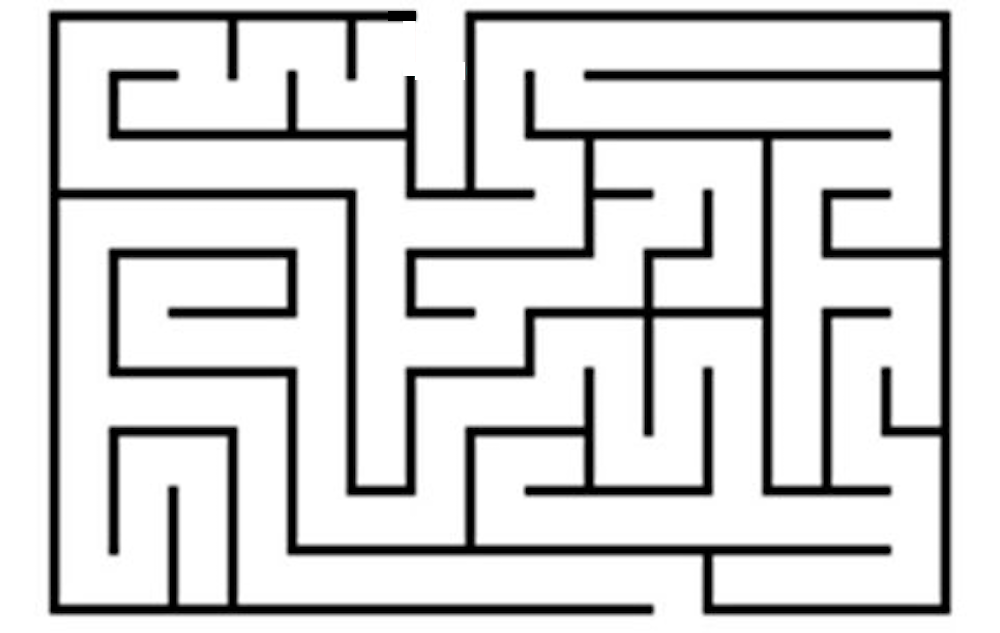
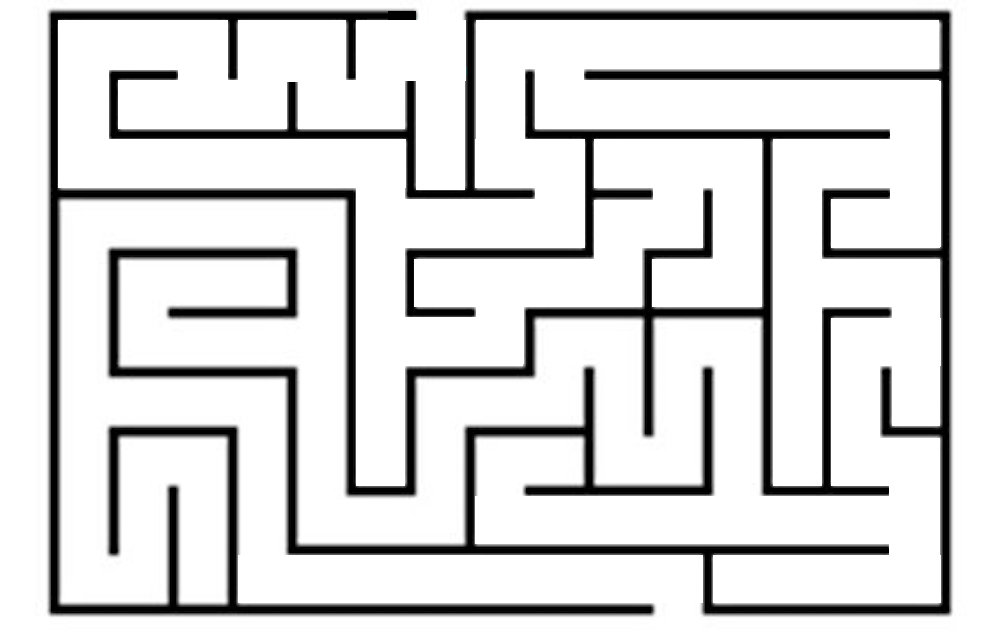
fixed part of color prob
next class finish fixing the image w white boxes then line one prob -
when answered correctly, the line will not go away.

diff --git a/src/MazeRiddlePANEL.java b/src/MazeRiddlePANEL.java
@@ -121,6 +121,7 @@ public class MazeRiddlePANEL extends JPanel implements ActionListener, KeyListen
 //		g.fillRect(dino.x + (dino.width-10), dino.y + (dino.height / 2), 2, 2); // right middle dot
 	}
 
+	
 	void startGame() {
 		timer.start();
 	}
@@ -150,12 +151,12 @@ public class MazeRiddlePANEL extends JPanel implements ActionListener, KeyListen
 		Color color = robot.getPixelColor(x, y);
 		int mazeColor = color.getRGB();
 			System.out.println(mazeColor);
-		if (mazeColor < -400000) {
-			System.out.println("riddle");
+		//if (mazeColor < -400000) {
+		//	System.out.println("riddle");
 			tellRiddle(x, y);
-		}
+		//}
 
-		if (mazeColor <= -16000000) {
+		if (mazeColor <= -16777216) {
 			dino.x = 417;
 			dino.y = 17;
 			System.out.println(mazeColor);

diff --git a/src/RedLines.java b/src/RedLines.java
@@ -1,3 +1,4 @@
+import java.awt.Color;
 import java.awt.Graphics;
 import java.awt.image.BufferedImage;
 
@@ -14,8 +15,9 @@ public class RedLines extends mazeRiddleGameOBJECT {
 	}
 	void draw(Graphics g, BufferedImage line){
 		if (visible == true){
-			g.drawImage(line, x, y, width, height, null);
-	
+			//g.drawImage(line, x, y, width, height, null);
+			g.setColor(Color.RED);
+	g.fillRect(x, y, width, height);
 		}
 			}
 	void setVisible(boolean visible){
